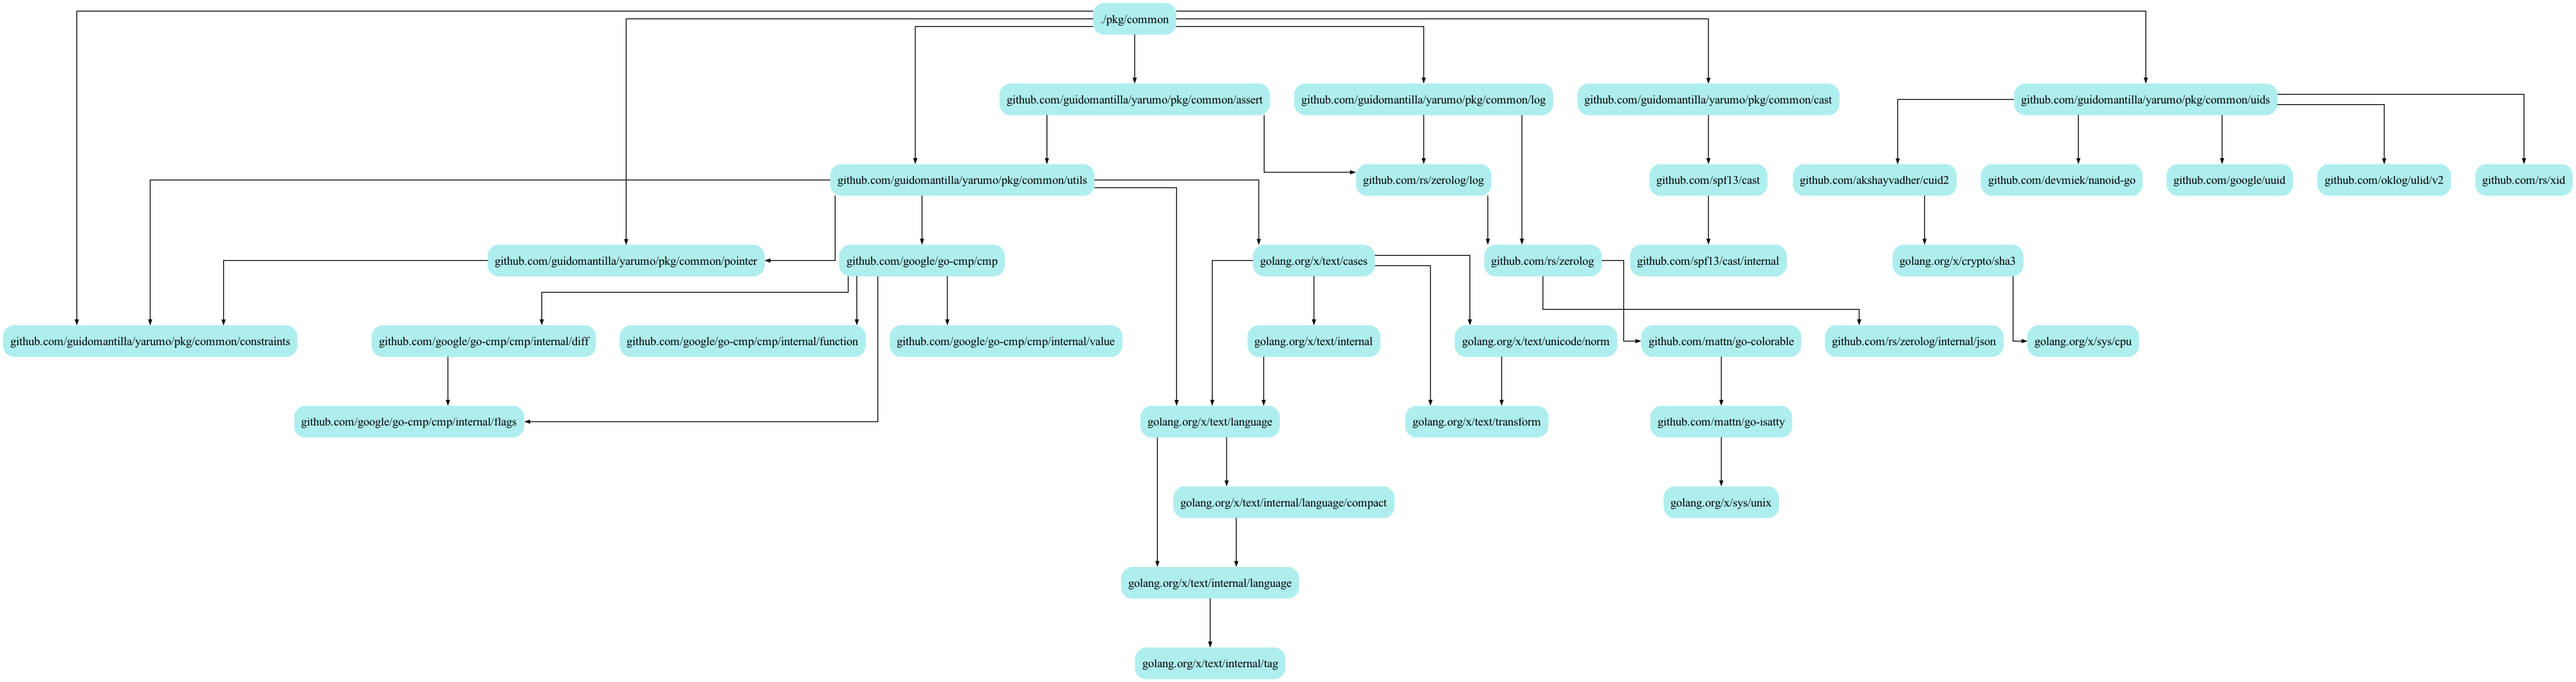
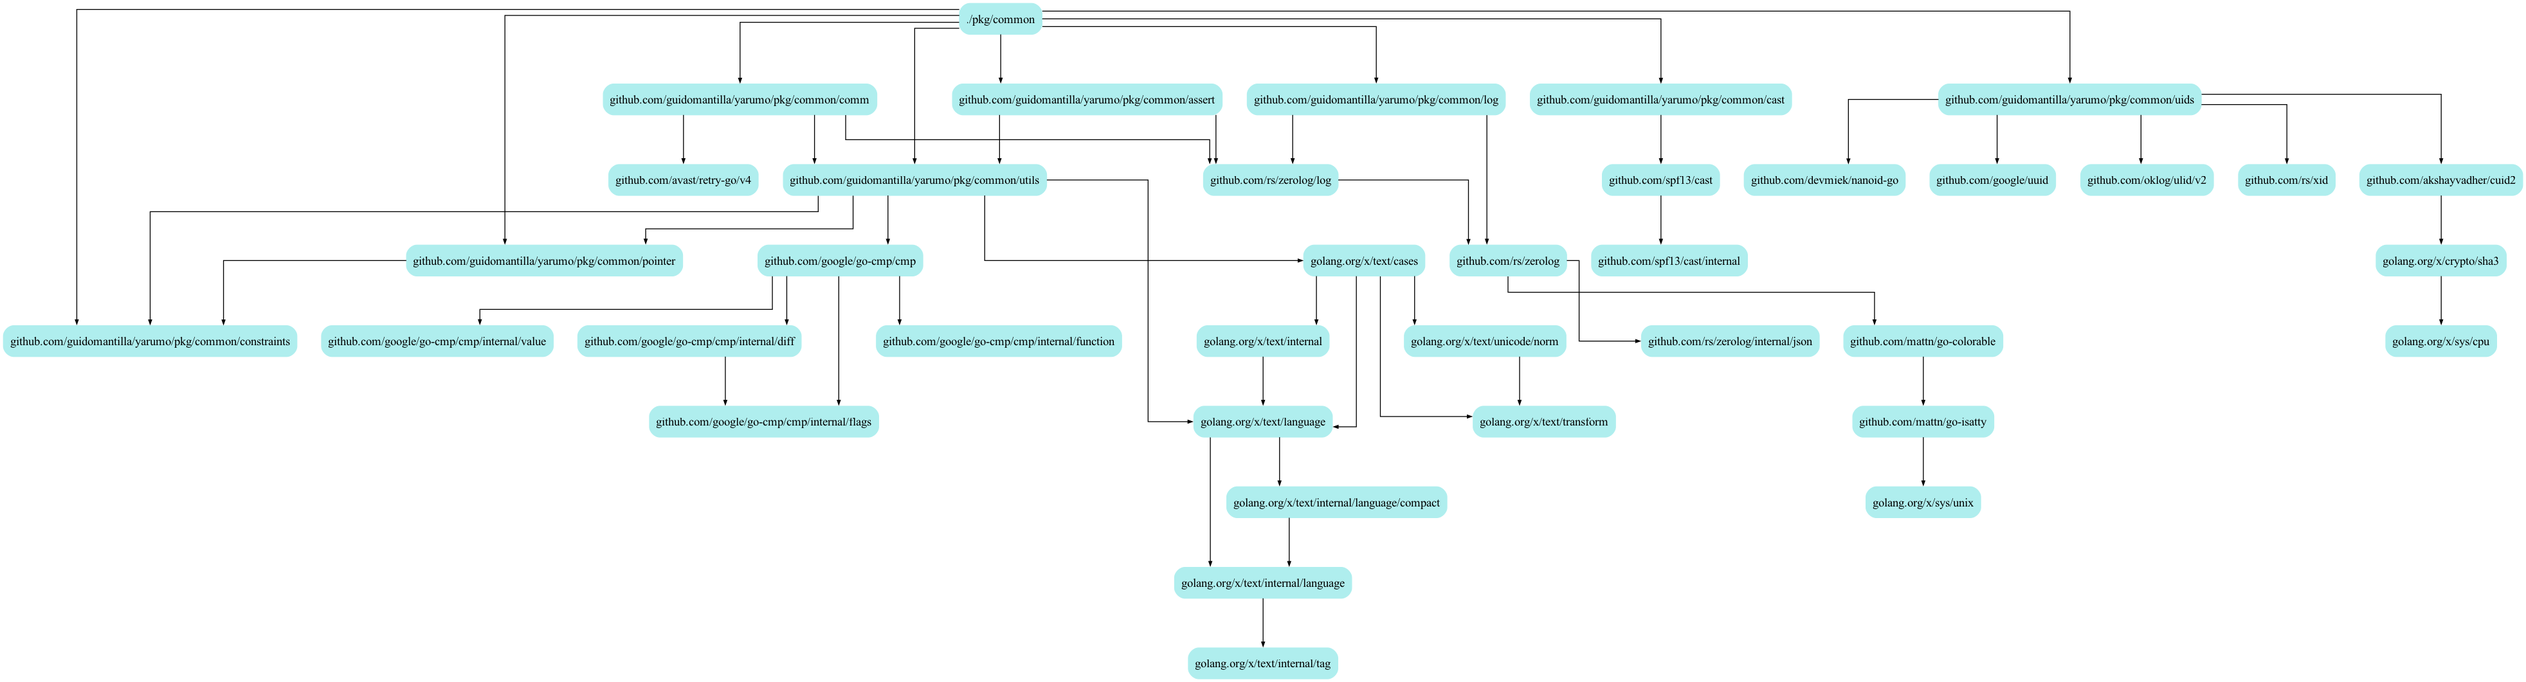
updates

diff --git a/pkg/common/comm/http.go b/pkg/common/comm/http.go
@@ -1,0 +1,130 @@
+package comm
+
+import (
+	"fmt"
+	"net"
+	"net/http"
+	"time"
+
+	retry "github.com/avast/retry-go/v4"
+	"github.com/rs/zerolog/log"
+
+	"github.com/guidomantilla/yarumo/pkg/common/utils"
+)
+
+type httpClient struct {
+	*http.Client
+}
+
+// NewHTTPClient returns a configured *http.Client
+// with a secure and efficient Transport, but without a global timeout unless specified in options.
+//
+// This is intended for applications where request timeouts
+// are managed externally using context.Context. It allows for more
+// granular and flexible timeout control—especially useful in microservices
+// or distributed systems where request lifetimes are propagated via context.
+//
+// IMPORTANT: If no context with timeout or cancellation is passed to the request,
+// the HTTP call may block indefinitely. Always use a context like:
+//
+//	ctx, cancel := context.WithTimeout(context.Background(), 5*time.Second)
+//	defer cancel()
+//	req, _ := http.NewRequestWithContext(ctx, "GET", "https://...", nil)
+//
+// The returned http.Client is equipped with a custom Transport that enables
+// connection reuse and sets sane defaults for TCP dial, TLS handshake, and
+// response header timeouts.
+//
+// Prefer this function over setting http.Client.Timeout when you need fine-grained
+// control per request or want to avoid global timeout conflicts.
+func NewHTTPClient(opts ...HttpOption) HTTPClient {
+	options := NewHttpOptions(opts...)
+	return &httpClient{
+		Client: &http.Client{
+			Timeout: options.Timeout,
+			Transport: &LoggingRoundTripper{
+				MaxRetries: options.MaxRetries,
+				Next: &http.Transport{
+					TLSClientConfig:     options.TLSClientConfig,
+					MaxIdleConns:        100,
+					MaxIdleConnsPerHost: 10,
+					IdleConnTimeout:     90 * time.Second,
+					DialContext: (&net.Dialer{
+						Timeout:   5 * time.Second,
+						KeepAlive: 30 * time.Second,
+					}).DialContext,
+					TLSHandshakeTimeout:   5 * time.Second,
+					ResponseHeaderTimeout: 10 * time.Second,
+					ExpectContinueTimeout: 1 * time.Second,
+				},
+			},
+		},
+	}
+}
+
+func (c *httpClient) Do(req *http.Request) (*http.Response, error) {
+	return c.Client.Do(req)
+}
+
+//
+
+type LoggingRoundTripper struct {
+	MaxRetries uint
+	Next       http.RoundTripper
+}
+
+func NewLoggingRoundTripper(maxRetries uint, next http.RoundTripper) http.RoundTripper {
+	if next == nil {
+		next = http.DefaultTransport
+	}
+	return &LoggingRoundTripper{
+		MaxRetries: maxRetries,
+		Next:       next,
+	}
+}
+
+func (lrt *LoggingRoundTripper) RoundTrip(req *http.Request) (*http.Response, error) {
+	start := time.Now()
+
+	var reqBodyPreview string
+	if req.Body != nil {
+		body, buffer, err := utils.ReadNopCloser(req.Body)
+		if err != nil {
+			log.Error().Str("method", req.Method).Stringer("url", req.URL).Err(err).Msg("error reading request body")
+			return nil, err
+		}
+		reqBodyPreview = string(buffer)
+		req.Body = body
+	}
+
+	retryableCall := func() (*http.Response, error) {
+		return lrt.Next.RoundTrip(req)
+	}
+
+	resp, err := retry.DoWithData(retryableCall, retry.Attempts(lrt.MaxRetries),
+		retry.OnRetry(func(n uint, err error) {
+			log.Error().Str("method", req.Method).Stringer("url", req.URL).Str("requestBody", reqBodyPreview).Err(err).Msg("HTTP request failed")
+		}),
+	)
+
+	if err != nil {
+		log.Error().Str("method", req.Method).Stringer("url", req.URL).Str("requestBody", reqBodyPreview).Err(err).Msg(fmt.Sprintf("HTTP request failed after %d retries", lrt.MaxRetries))
+		return nil, err
+	}
+
+	duration := time.Since(start)
+
+	var respBodyPreview string
+	if resp.Body != nil {
+		body, buffer, err := utils.ReadNopCloser(req.Body)
+		if err != nil {
+			log.Error().Str("method", req.Method).Stringer("url", req.URL).Err(err).Msg("error reading response body")
+			return nil, err
+		}
+		respBodyPreview = string(buffer)
+		resp.Body = body
+	}
+
+	log.Info().Str("method", req.Method).Stringer("url", req.URL).Int("status", resp.StatusCode).Dur("duration", duration).Str("requestBody", reqBodyPreview).Str("responseBody", respBodyPreview).Msg("HTTP request completed")
+	return resp, nil
+}

diff --git a/pkg/boot/container.go b/pkg/boot/container.go
@@ -1,6 +1,7 @@
 package boot
 
 import (
+	"github.com/guidomantilla/yarumo/pkg/common/comm"
 	"time"
 
 	validator "github.com/go-playground/validator/v10"
@@ -29,6 +30,7 @@ type Container struct {
 	PasswordGenerator passwords.Generator
 	TokenGenerator    tokens.Generator
 	Cipher            cryptos.Cipher
+	HttpClient        comm.HTTPClient
 }
 
 func Hasher(container *Container) {
@@ -83,4 +85,16 @@ func TokenGenerator(container *Container) {
 func Cipher(container *Container) {
 	log.Warn().Str("stage", "startup").Str("component", "cipher").Msg("cipher function not implemented. using default cipher")
 	container.Cipher = cryptos.NewAesCipher()
+}
+
+func HttpClient(container *Container) {
+	log.Warn().Str("stage", "startup").Str("component", "http client").Msg("http client function not implemented. using zero global timeout http client")
+
+	timeout := comm.WithTimeout(utils.Ternary(viper.IsSet("HTTP_CLIENT_TIMEOUT"),
+		viper.GetDuration("HTTP_CLIENT_TIMEOUT"), 0))
+
+	maxRetries := comm.WithMaxRetries(utils.Ternary(viper.IsSet("HTTP_CLIENT_MAX_RETRIES"),
+		uint(viper.GetInt("HTTP_CLIENT_MAX_RETRIES")), 3))
+
+	container.HttpClient = comm.NewHTTPClient(timeout, maxRetries)
 }

diff --git a/pkg/boot/options.go b/pkg/boot/options.go
@@ -10,6 +10,7 @@ type Options struct {
 	PasswordGenerator BeanFn
 	TokenGenerator    BeanFn
 	Cipher            BeanFn
+	HttpClient        BeanFn
 }
 
 func NewOptions(opts ...Option) *Options {
@@ -23,6 +24,7 @@ func NewOptions(opts ...Option) *Options {
 		PasswordGenerator: PasswordGenerator,
 		TokenGenerator:    TokenGenerator,
 		Cipher:            Cipher,
+		HttpClient:        HttpClient,
 	}
 
 	for _, opt := range opts {
@@ -112,5 +114,14 @@ func WithTokenGenerator(tokenGeneratorFn BeanFn) Option {
 func WithCipher(cipherFn BeanFn) Option {
 	return func(opts *Options) {
 		opts.Cipher = cipherFn
+	}
+}
+
+// WithHttpClient allows setting a custom HTTP client function into the WireContext (wctx *boot.WireContext).
+//
+// wctx.HttpClient = <http client object>
+func WithHttpClient(httpClientFn BeanFn) Option {
+	return func(opts *Options) {
+		opts.HttpClient = httpClientFn
 	}
 }

diff --git a/pkg/common/comm/http_options.go b/pkg/common/comm/http_options.go
@@ -1,0 +1,46 @@
+package comm
+
+import (
+	"crypto/tls"
+	"time"
+)
+
+type HttpOptions struct {
+	Timeout         time.Duration
+	MaxRetries      uint
+	TLSClientConfig *tls.Config
+}
+
+func NewHttpOptions(opts ...HttpOption) *HttpOptions {
+	options := &HttpOptions{
+		Timeout:         0,
+		MaxRetries:      3,
+		TLSClientConfig: nil,
+	}
+
+	for _, opt := range opts {
+		opt(options)
+	}
+
+	return options
+}
+
+type HttpOption func(opts *HttpOptions)
+
+func WithTimeout(timeout time.Duration) HttpOption {
+	return func(opts *HttpOptions) {
+		opts.Timeout = timeout
+	}
+}
+
+func WithMaxRetries(maxRetries uint) HttpOption {
+	return func(opts *HttpOptions) {
+		opts.MaxRetries = maxRetries
+	}
+}
+
+func WithTLSClientConfig(tlsConfig *tls.Config) HttpOption {
+	return func(opts *HttpOptions) {
+		opts.TLSClientConfig = tlsConfig
+	}
+}

diff --git a/pkg/common/utils/functions.go b/pkg/common/utils/functions.go
@@ -1,6 +1,8 @@
 package utils
 
 import (
+	"bytes"
+	"io"
 	rand "math/rand/v2"
 	"reflect"
 	"regexp"
@@ -682,4 +684,16 @@ func OmitByValues[K constraints.Comparable, V constraints.Comparable](keyValues 
 		}
 	}
 	return r
+}
+
+// ReadNopCloser reads all data from the provided io.ReadCloser and returns a new io.ReadCloser that reads from a bytes.Reader.
+// The reader returned is a NopCloser, which means it does not close the underlying reader when closed.
+func ReadNopCloser(reader io.ReadCloser) (io.ReadCloser, []byte, error) {
+	buffer, err := io.ReadAll(reader)
+	if err != nil {
+		return nil, nil, err
+	}
+
+	readerNopCloser := io.NopCloser(bytes.NewReader(buffer))
+	return readerNopCloser, buffer, nil
 }

diff --git a/pkg/boot/context.go b/pkg/boot/context.go
@@ -92,6 +92,9 @@ func NewWireContext[C any](name string, version string, opts ...Option) *WireCon
 	options.Cipher(container)
 	log.Info().Str("stage", "startup").Str("component", "context").Msg("cipher set up")
 
+	options.HttpClient(container)
+	log.Info().Str("stage", "startup").Str("component", "context").Msg("http client set up")
+
 	wctx := &WireContext[C]{
 		Container: *container,
 		Config:    container.Config.(C),

diff --git a/pkg/common/graph.go b/pkg/common/graph.go
@@ -3,6 +3,7 @@ package common
 import (
 	_ "github.com/guidomantilla/yarumo/pkg/common/assert"
 	_ "github.com/guidomantilla/yarumo/pkg/common/cast"
+	_ "github.com/guidomantilla/yarumo/pkg/common/comm"
 	_ "github.com/guidomantilla/yarumo/pkg/common/constraints"
 	_ "github.com/guidomantilla/yarumo/pkg/common/log"
 	_ "github.com/guidomantilla/yarumo/pkg/common/pointer"

diff --git a/pkg/common/comm/types.go b/pkg/common/comm/types.go
@@ -1,0 +1,13 @@
+package comm
+
+import "net/http"
+
+var (
+	_ HTTPClient        = (*httpClient)(nil)
+	_ HTTPClient        = (*http.Client)(nil)
+	_ http.RoundTripper = (*LoggingRoundTripper)(nil)
+)
+
+type HTTPClient interface {
+	Do(req *http.Request) (*http.Response, error)
+}
